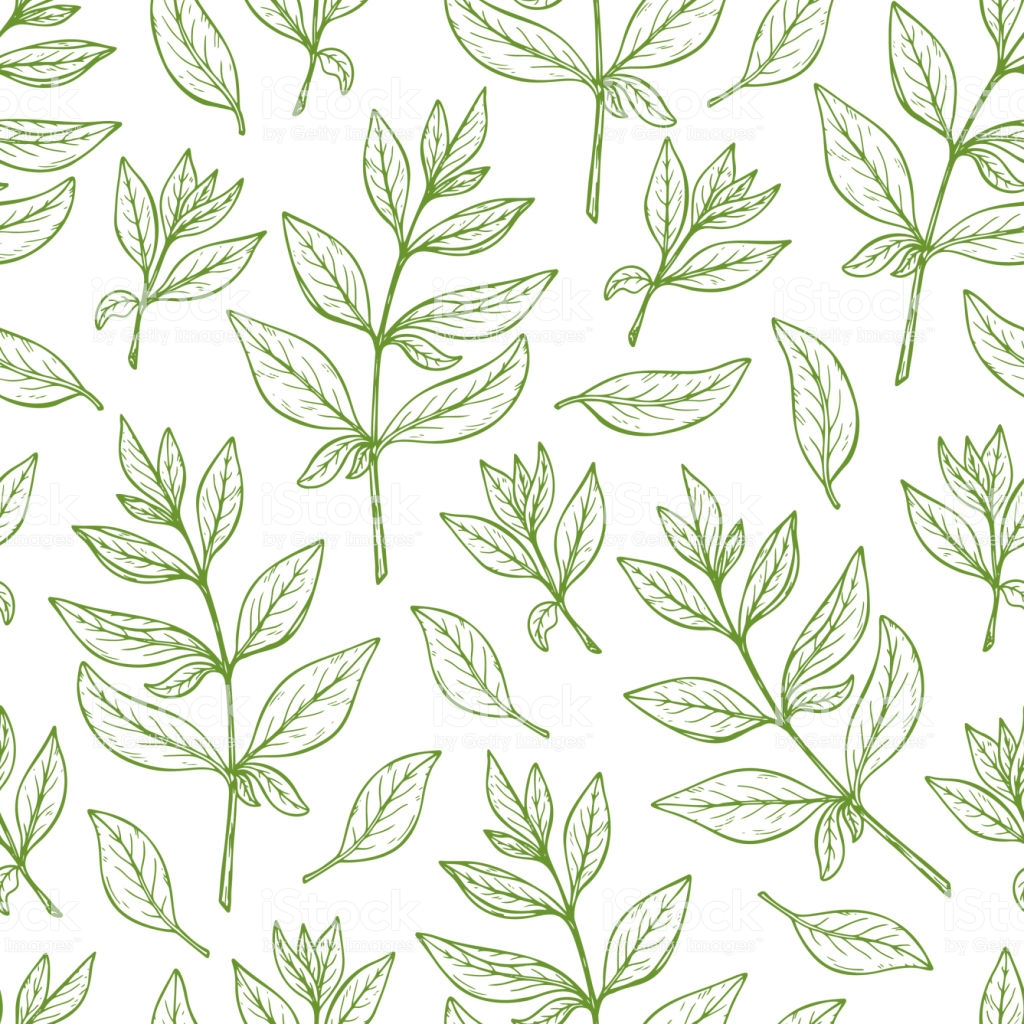
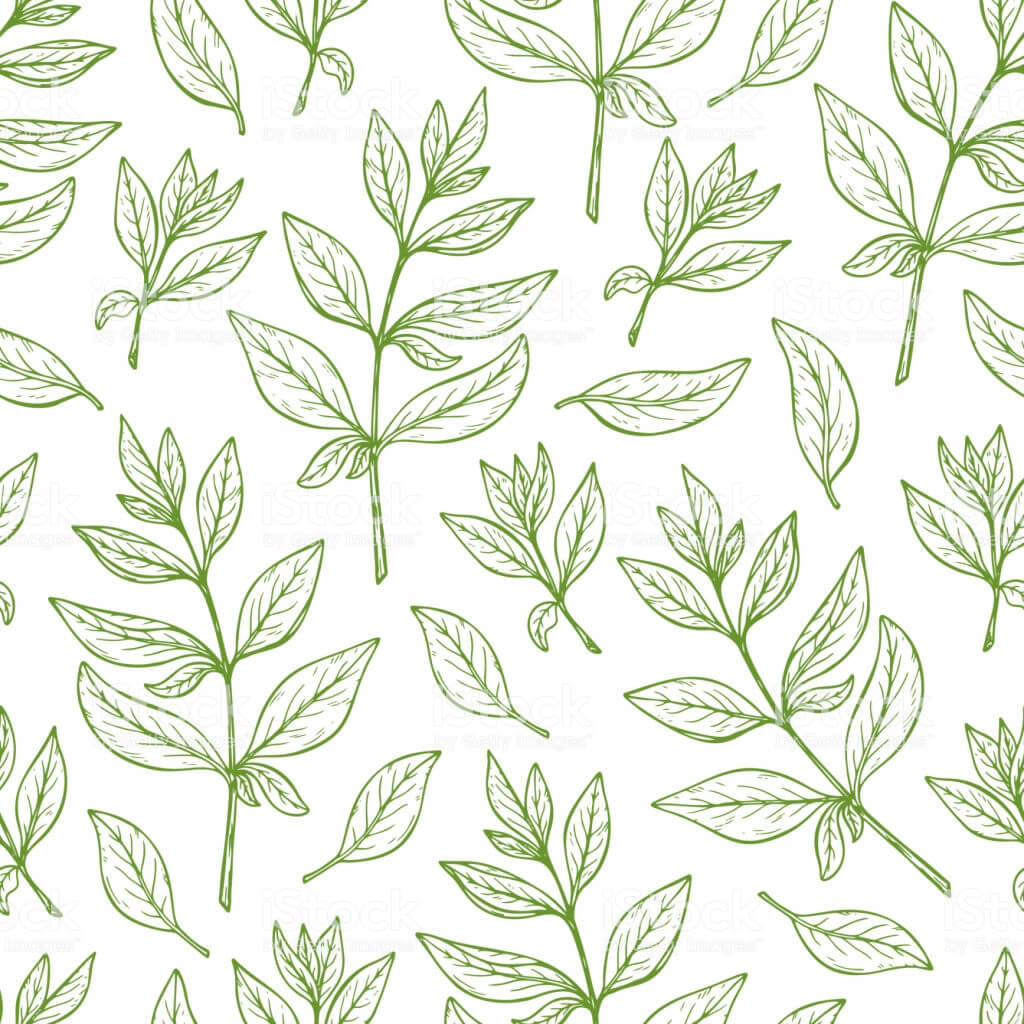
zmniejszenie plikow graficznych

diff --git a/index.html b/index.html
@@ -52,7 +52,7 @@
         <div class="hero__logo">
           <img class="logo" src="Identyfikacja/logo_1.png" alt="logo" />
         </div>
-        <div data-aos="fade-down" class="hero__intro">
+        <div class="hero__intro">
           <h1>
             Witamy w świecie zdrowej żywności! Pragniemy przedstawić Ci
             aplikację, dzięki której zostaniesz kulinarnym fit guru, a zjedzenie
